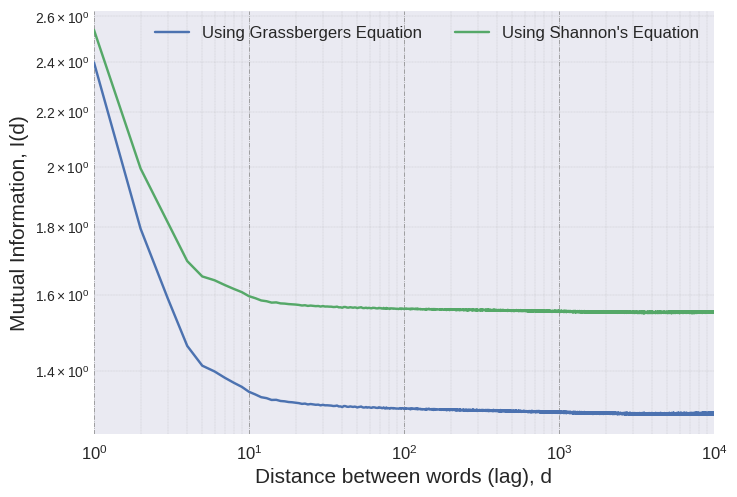
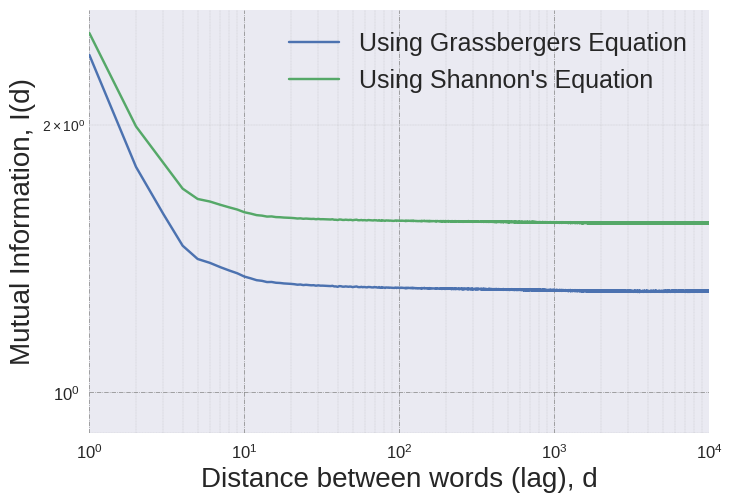
Up new

diff --git a/paper_related/plot_mi.py b/paper_related/plot_mi.py
@@ -4,7 +4,6 @@ import seaborn as sns
 import matplotlib.pyplot as plt
 import numpy as np
 
-# filenames = ["mnist_grassberger_logx_mi.dat","mnist_standard_logx_mi.dat"]
 # filenames = ["penn_tree_words_10000_grassberger_logx_mi.dat","penn_tree_words_10000_standard_logx_mi.dat"]
 filenames = ["wiki2_words_10000_grassberger_logx_mi.dat","wiki2_words_10000_standard_logx_mi.dat"]
 
@@ -55,17 +54,17 @@ with plt.style.context(('seaborn')):
     plt.loglog(np.arange(1,len(all_mi[0])+1), all_mi[0], label="Using Grassbergers Equation")
     plt.loglog(np.arange(1,len(all_mi[1])+1), all_mi[1], label="Using Shannon's Equation")
 
-    plt.tick_params(labelsize='large', width=5)
+    plt.tick_params(labelsize='large', width=10)
     plt.grid(True)
     plt.grid(which='major', linestyle='-.', linewidth='0.5', color='grey')
     plt.grid(which='minor', linestyle=':', linewidth='0.2', color='grey')
     ax = plt.axes()
     ax.set_xlim(1, len(all_mi[0]))
-    # ax.set_ylim(0.56, 3.2)
+    ax.set_ylim(0.9, 2.7)
     print(ax.get_xlim())
     print(ax.get_ylim())
-    ax.set_xlabel('Distance between words (lag), d', fontsize=15)
-    ax.set_ylabel('Mutual Information, I(d)', fontsize=15)
-    lgd = ax.legend(loc='upper right', shadow=True, fancybox=True, ncol=3, numpoints=1, prop={'size': 12})
+    ax.set_xlabel('Distance between words (lag), d', fontsize=20)
+    ax.set_ylabel('Mutual Information, I(d)', fontsize=20)
+    lgd = ax.legend(loc='upper right', shadow=True, fancybox=True, numpoints=1, prop={'size': 18})
     plt.savefig('mi_intro_wiki2', bbox_extra_artists=(lgd,), bbox_inches='tight')
     plt.show()
